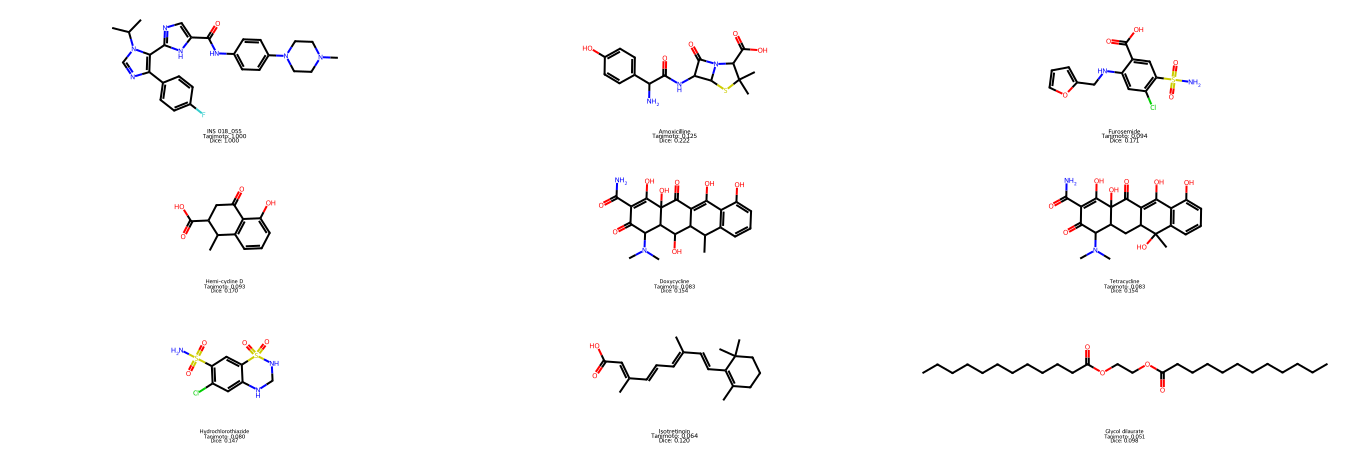
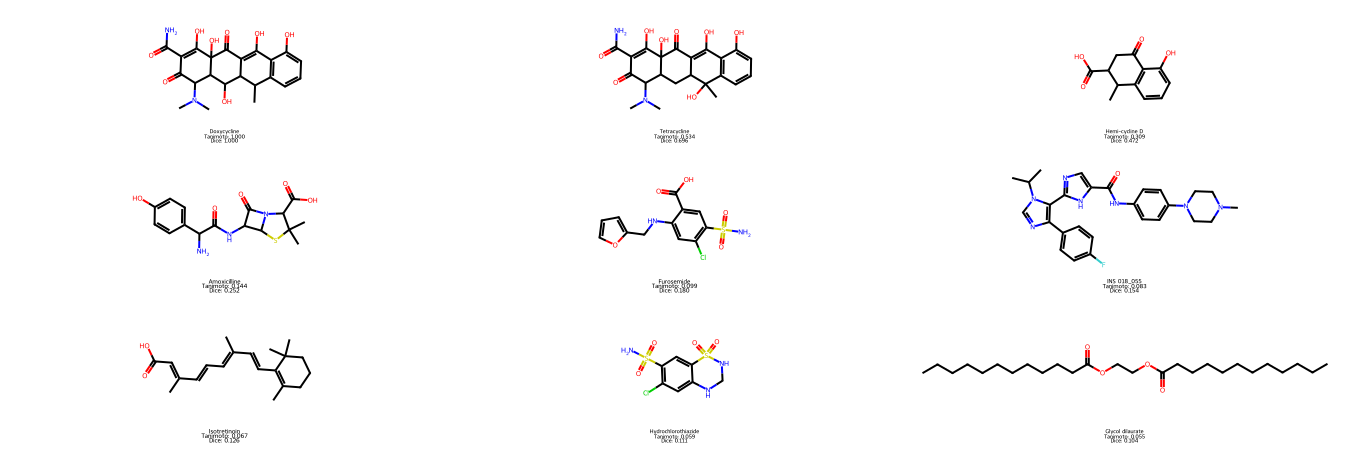
富集因子

diff --git a/similarity_screener.py b/similarity_screener.py
@@ -1,10 +1,11 @@
 from pathlib import Path
-
 import pandas as pd
+import numpy as np
 import matplotlib.pyplot as plt
-import io
 from rdkit import Chem, DataStructs
-from PIL import Image
+
+import requests
+from io import StringIO
 from rdkit.Chem import (
     PandasTools,
     Draw,
@@ -12,10 +13,128 @@ from rdkit.Chem import (
     MACCSkeys,
     rdFingerprintGenerator,
 )
+from rdkit.Chem.Draw import MolsToGridImage
+
+plt.rcParams['font.sans-serif'] = ['DejaVu Sans']
+plt.rcParams['axes.unicode_minus'] = False
 
 HERE = Path(__file__).parent
 DATA = HERE / "data"
 DATA.mkdir(exist_ok=True, parents=True)  # # 确保目录存在，添加parents=True确保父目录也存在
+
+
+def load_egfr_data():
+    """
+    加载 EGFR 数据库
+    """
+    print("=== 加载 EGFR 数据库 ===")
+
+    # EGFR 数据文件路径
+    egfr_file = DATA / "EGFR_compounds_lipinski.csv"
+
+    if not egfr_file.exists():
+        print(f"错误: 未找到 EGFR 数据文件: {egfr_file}")
+        return None
+
+    try:
+        # 读取 EGFR 数据
+        egfr_data = pd.read_csv(egfr_file)
+        print(f"成功加载 EGFR 数据: {len(egfr_data)} 个分子")
+
+        # 检查必要的列
+        if 'smiles' not in egfr_data.columns:
+            print("错误: EGFR 数据缺少 'smiles' 列")
+            return None
+
+        # 添加分子名称列（如果不存在）
+        if 'molecule_name' not in egfr_data.columns:
+            if 'molecule_chembl_id' in egfr_data.columns:
+                egfr_data['molecule_name'] = egfr_data['molecule_chembl_id']
+            else:
+                egfr_data['molecule_name'] = [f"EGFR_Compound_{i + 1}" for i in range(len(egfr_data))]
+
+        # 添加 RDKit 分子对象
+        PandasTools.AddMoleculeColumnToFrame(egfr_data, 'smiles', 'ROMol')
+
+        # 移除无法解析的分子
+        original_count = len(egfr_data)
+        egfr_data = egfr_data[egfr_data['ROMol'].notnull()]
+        filtered_count = len(egfr_data)
+
+        if filtered_count < original_count:
+            print(f"过滤掉 {original_count - filtered_count} 个无法解析的分子")
+
+        print("EGFR 分子列表:")
+        for i, row in egfr_data.iterrows():
+            print(f"{i + 1}. {row['molecule_name']}")
+
+        return egfr_data
+
+    except Exception as e:
+        print(f"加载 EGFR 数据失败: {e}")
+        return None
+
+
+def calculate_egfr_similarities(egfr_data, query_smiles):
+    """
+    计算 EGFR 分子与查询分子的相似度
+    """
+    print(f"\n=== 计算 EGFR 分子相似度 ===")
+
+    # 创建查询分子
+    query_mol = Chem.MolFromSmiles(query_smiles)
+    if query_mol is None:
+        print(f"错误: 无法解析查询分子的 SMILES: {query_smiles}")
+        return egfr_data
+
+    # 计算查询分子的指纹
+    maccs_query = MACCSkeys.GenMACCSKeys(query_mol)
+
+    # 生成 Morgan 指纹生成器
+    fpg = rdFingerprintGenerator.GetMorganGenerator(radius=2, fpSize=2048)
+    morgan_query = fpg.GetFingerprint(query_mol)
+
+    # 为 EGFR 分子计算指纹
+    egfr_data["maccs"] = egfr_data["ROMol"].apply(MACCSkeys.GenMACCSKeys)
+    egfr_data["morgan"] = egfr_data["ROMol"].apply(fpg.GetFingerprint)
+
+    # 计算相似度
+    maccs_list = egfr_data["maccs"].tolist()
+    morgan_list = egfr_data["morgan"].tolist()
+
+    egfr_data["tanimoto_maccs"] = DataStructs.BulkTanimotoSimilarity(maccs_query, maccs_list)
+    egfr_data["dice_maccs"] = DataStructs.BulkDiceSimilarity(maccs_query, maccs_list)
+    egfr_data["tanimoto_morgan"] = DataStructs.BulkTanimotoSimilarity(morgan_query, morgan_list)
+    egfr_data["dice_morgan"] = DataStructs.BulkDiceSimilarity(morgan_query, morgan_list)
+
+    # 计算综合相似度
+    egfr_data["composite_similarity"] = (
+            egfr_data["tanimoto_morgan"] * 0.6 +
+            egfr_data["tanimoto_maccs"] * 0.4
+    )
+
+    return egfr_data
+
+egfr_data = load_egfr_data()
+
+if egfr_data is not None:
+    print("\n使用 EGFR 数据库进行分析")
+
+    # 使用 INS 018_055 作为查询分子
+    query_smiles = "CC(C)N1C=NC(=C1C1=NC=C(N1)C(=O)NC1=CC=C(C=C1)N1CCN(C)CC1)C1=CC=C(F)C=C1"
+
+    # 计算相似度
+    egfr_data = calculate_egfr_similarities(egfr_data, query_smiles)
+
+    # 重命名列以匹配现有代码
+    egfr_data = egfr_data.rename(columns={'molecule_name': 'name'})
+
+    # 使用 EGFR 数据替换原有的 molecules 数据框
+    molecules = egfr_data
+
+    print(f"已加载 {len(molecules)} 个 EGFR 分子")
+else:
+    print("\n使用原有的测试分子进行分析")
 
 # Molecules in SMILES format
 molecule_smiles = [
@@ -112,8 +231,8 @@ except Exception as e:
 # 二維分子描述子：MACCS指紋
 print("\n=== 生成MACCS指纹 ===")
 try:
-    molecule = molecules["ROMol"][8]# 选择第8号INS 018_055分子作为示例
-    print(f"示例分子: {molecules['name'][8]}")
+    molecule = molecules["ROMol"][0]# 选择第8号INS 018_055分子作为示例
+    print(f"示例分子: {molecules['name'][0]}")
 
     # 生成MACCS指紋
     maccs_fp = MACCSkeys.GenMACCSKeys(molecule)
@@ -150,7 +269,7 @@ except Exception as e:
 
 #MACCS fingerprints: Tanimoto similarity and Dice similarity
 print("\n=== MACCS 指纹分子相似性计算 ===")
-query_molecule_index = 8# 明确指定查询分子的索引
+query_molecule_index = 0# 明确指定查询分子的索引
 maccs_query = molecules.loc[query_molecule_index, "maccs"]
 maccs_list = molecules["maccs"].tolist()
 
@@ -162,7 +281,7 @@ molecules["dice_maccs"] = DataStructs.BulkDiceSimilarity(maccs_query, maccs_list
 #Morgan fingerprints: Tanimoto similarity and Dice similarity
 print("\n=== Morgan 指纹分子相似性计算 ===")
 # Define molecule query and list
-query_molecule_index = 8  # 明确指定查询分子的索引
+query_molecule_index = 0  # 明确指定查询分子的索引
 molecule_query = molecules.loc[query_molecule_index, "morgan"]
 molecule_list = molecules["morgan"].to_list()
 
@@ -215,3 +334,217 @@ try:
 except Exception as e:
     print(f"生成相似度排名分子图像时出错: {e}")
 
+#富集因子
+def enrichment_analysis_existing(molecules_df, query_index=8):
+
+    print("\n" + "=" * 60)
+    print("富集分析 - 基于现有相似度计算结果")
+
+
+    # 使用已有的相似度列
+    if 'tanimoto_morgan' not in molecules_df.columns or 'tanimoto_maccs' not in molecules_df.columns:
+        print("错误: 未找到相似度计算结果")
+        return
+
+    # 模拟活性分子：基于与查询分子的相似度
+    # 使用 Morgan 相似度来定义"活性"分子
+    similarity_threshold = 0.6 # 可以调整这个阈值
+    active_indices = molecules_df[molecules_df['tanimoto_morgan'] > similarity_threshold].index.tolist()
+
+    print(f"模拟活性分子 (Morgan相似度 > {similarity_threshold}): {len(active_indices)} 个")
+    for idx in active_indices:
+        name = molecules_df.loc[idx, 'name']
+        similarity = molecules_df.loc[idx, 'tanimoto_morgan']
+        print(f"  {name}: {similarity:.3f}")
+
+    # 计算富集因子
+    fractions = [0.1, 0.2, 0.3, 0.5]  # 10%, 20%, 30%, 50%
+
+    print(f"\n富集因子分析:")
+
+    # MACCS 指纹富集
+    print(f"\nMACCS 指纹:")
+    maccs_scores = molecules_df['tanimoto_maccs'].values
+    for fraction in fractions:
+        num_selected = max(1, int(len(molecules_df) * fraction))
+        # 从高到低排序
+        selected_indices = np.argsort(maccs_scores)[-num_selected:]
+        actives_found = len(set(selected_indices) & set(active_indices))
+        expected_actives = len(active_indices) * fraction
+        enrichment_factor = actives_found / expected_actives if expected_actives > 0 else 0
+
+        print(
+            f"  前{fraction * 100:.0f}%: 找到 {actives_found}/{len(active_indices)} 个活性分子, 富集因子 = {enrichment_factor:.2f}")
+
+    # Morgan 指纹富集
+    print(f"\nMorgan 指纹:")
+    morgan_scores = molecules_df['tanimoto_morgan'].values
+    for fraction in fractions:
+        num_selected = max(1, int(len(molecules_df) * fraction))
+        # 从高到低排序
+        selected_indices = np.argsort(morgan_scores)[-num_selected:]
+        actives_found = len(set(selected_indices) & set(active_indices))
+        expected_actives = len(active_indices) * fraction
+        enrichment_factor = actives_found / expected_actives if expected_actives > 0 else 0
+
+        print(
+            f"  前{fraction * 100:.0f}%: 找到 {actives_found}/{len(active_indices)} 个活性分子, 富集因子 = {enrichment_factor:.2f}")
+
+    return active_indices
+
+
+def plot_enrichment_curves_existing(molecules_df, active_indices):
+    """
+    基于现有数据绘制富集曲线
+    """
+    print(f"\n=== 生成富集曲线 ===")
+
+    # 计算完整的富集曲线
+    fractions = np.linspace(0.01, 1.0, 100)
+
+    # MACCS 富集
+    maccs_scores = molecules_df['tanimoto_maccs'].values
+    maccs_enrichment = []
+
+    # Morgan 富集
+    morgan_scores = molecules_df['tanimoto_morgan'].values
+    morgan_enrichment = []
+
+    for fraction in fractions:
+        num_selected = max(1, int(len(molecules_df) * fraction))
+
+        # MACCS
+        maccs_selected = np.argsort(maccs_scores)[-num_selected:]
+        maccs_actives = len(set(maccs_selected) & set(active_indices))
+        maccs_expected = len(active_indices) * fraction
+        maccs_enrichment.append(maccs_actives / maccs_expected if maccs_expected > 0 else 0)
+
+        # Morgan
+        morgan_selected = np.argsort(morgan_scores)[-num_selected:]
+        morgan_actives = len(set(morgan_selected) & set(active_indices))
+        morgan_expected = len(active_indices) * fraction
+        morgan_enrichment.append(morgan_actives / morgan_expected if morgan_expected > 0 else 0)
+
+    # 绘制富集曲线
+    plt.figure(figsize=(12, 8))
+
+    plt.plot(fractions * 100, maccs_enrichment, 'b-', linewidth=3, label='MACCS fingerprints')
+    plt.plot(fractions * 100, morgan_enrichment, 'r-', linewidth=3, label='Morgan fingerprints')
+    plt.axhline(y=1.0, color='gray', linestyle='--', linewidth=2, label='Random screening')
+
+    plt.xlabel('Screened Fraction (%)', fontsize=14, fontweight='bold')
+    plt.ylabel('Enrichment Factor', fontsize=14, fontweight='bold')
+    plt.title('Fingerprint Method Comparison: Enrichment Curves',
+              fontsize=16, fontweight='bold')
+
+    # 标注20%处的富集因子
+    idx_20 = np.argmin(np.abs(fractions - 0.2))
+    maccs_ef_20 = maccs_enrichment[idx_20]
+    morgan_ef_20 = morgan_enrichment[idx_20]
+
+    plt.annotate(f'MACCS 20%: EF = {maccs_ef_20:.2f}',
+                 xy=(20, maccs_ef_20),
+                 xytext=(30, maccs_ef_20 + 0.5),
+                 arrowprops=dict(arrowstyle='->', color='blue', lw=2),
+                 fontsize=12, color='blue', fontweight='bold')
+
+    plt.annotate(f'Morgan 20%: EF = {morgan_ef_20:.2f}',
+                 xy=(20, morgan_ef_20),
+                 xytext=(30, morgan_ef_20 - 0.5),
+                 arrowprops=dict(arrowstyle='->', color='red', lw=2),
+                 fontsize=12, color='red', fontweight='bold')
+
+    plt.legend(fontsize=12)
+    plt.grid(True, alpha=0.3)
+    plt.xlim(0, 100)
+
+    # 设置Y轴范围
+    max_ef = max(max(maccs_enrichment), max(morgan_enrichment))
+    plt.ylim(0, min(max_ef + 0.5, 10))
+
+    plt.tight_layout()
+    enrichment_path = DATA / "enrichment_curves_final.png"
+    plt.savefig(enrichment_path, dpi=300, bbox_inches='tight')
+    plt.show()
+
+    print(f"富集曲线已保存至: {enrichment_path}")
+
+    return maccs_ef_20, morgan_ef_20
+
+
+def method_comparison_summary(molecules_df, maccs_ef_20, morgan_ef_20):
+    """
+    方法比较总结
+    """
+    print("\n" + "=" * 80)
+    print("指纹方法比较总结")
+
+
+    # 基本统计
+    print(f"\n1. 数据集信息:")
+    print(f"   总分子数: {len(molecules_df)}")
+    print(f"   查询分子: {molecules_df.loc[8, 'name']}")  # INS 018_055
+
+    print(f"\n2. 相似度统计:")
+    print(f"   MACCS Tanimoto - 平均值: {molecules_df['tanimoto_maccs'].mean():.3f}, "
+          f"标准差: {molecules_df['tanimoto_maccs'].std():.3f}")
+    print(f"   Morgan Tanimoto - 平均值: {molecules_df['tanimoto_morgan'].mean():.3f}, "
+          f"标准差: {molecules_df['tanimoto_morgan'].std():.3f}")
+
+    print(f"\n3. 20%筛选比例处的富集因子:")
+    print(f"   MACCS 指纹: {maccs_ef_20:.2f}")
+    print(f"   Morgan 指纹: {morgan_ef_20:.2f}")
+
+    print(f"\n4. 前5个最相似分子 (按Morgan相似度):")
+
+    # 按Morgan相似度排序，排除查询分子本身
+    top_similar = molecules_df.nlargest(6, 'tanimoto_morgan')
+    # 查找查询分子的索引
+    query_mask = top_similar['name'] == 'INS 018_055'
+    if query_mask.any():
+        top_similar = top_similar[~query_mask].head(5)
+    else:
+        top_similar = top_similar.head(5)
+
+    for i, (idx, row) in enumerate(top_similar.iterrows(), 1):
+        print(f"   {i}. {row['name']}")
+        print(f"      Morgan相似度: {row['tanimoto_morgan']:.3f}, "
+              f"MACCS相似度: {row['tanimoto_maccs']:.3f}")
+
+    # 判断哪种方法更好 - 修复除以零错误
+    if morgan_ef_20 > maccs_ef_20:
+        better_method = "Morgan"
+        better_ef = morgan_ef_20
+        worse_ef = maccs_ef_20
+    else:
+        better_method = "MACCS"
+        better_ef = maccs_ef_20
+        worse_ef = morgan_ef_20
+
+    # 修复除以零错误
+    if worse_ef > 0:
+        improvement = (better_ef - worse_ef) / worse_ef * 100
+        improvement_text = f"比另一种方法提高了{improvement:.1f}%"
+    else:
+        improvement_text = "另一种方法的富集因子为0，无法计算改进百分比"
+
+    print(f"\n5. 结论:")
+    print(f"   {better_method}指纹在早期识别方面表现更好")
+    print(f"   富集因子{better_ef:.2f}意味着比随机筛选好{better_ef:.1f}倍")
+    print(f"   {improvement_text}")
+
+
+
+# 1. 基于现有数据进行富集分析
+active_indices = enrichment_analysis_existing(molecules, query_index=8)
+
+# 2. 绘制富集曲线
+maccs_ef_20, morgan_ef_20 = plot_enrichment_curves_existing(molecules, active_indices)
+
+# 3. 生成方法比较总结
+method_comparison_summary(molecules, maccs_ef_20, morgan_ef_20)
+
+# 4. 保存最终结果
+final_results_path = DATA / "final_similarity_analysis.csv"
+molecules.to_csv(final_results_path, index=False)
+print(f"\n最终结果已保存至: {final_results_path}")
